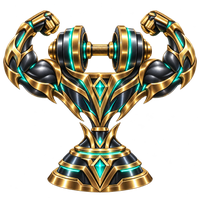
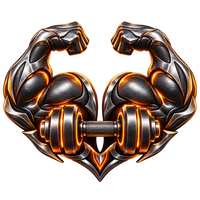
Upgrade Back Builder, Leg Day Legend, and Arm Arsenal badge art (#75)
Swaps in new fantasy-armor artwork for the three muscle-group
training badges, resized to match the existing 200x200 badge format.
Same filenames/ids, so no app.js changes needed — just new pixels
plus a service worker cache bump so the new art actually loads.

Claude-Session: https://claude.ai/code/session_018jJBPyfyecoZ8Jk4MZB7tZ

diff --git a/sw.js b/sw.js
@@ -1,1 +1,1 @@
-const CACHE='body-goals-v73';const ASSETS=['./','index.html','styles.css','app.js','fitnotes-history.json','manifest.webmanifest','icon-192.png','icon-512.png','me-icon.jpg','me-gym.jpg','food-icon.jpg','badges/01_first_step.png','badges/02_seven_day_streak.png','badges/03_thirty_day_streak.png','badges/04_workout_warrior.png','badges/05_iron_discipline.png','badges/06_personal_best.png','badges/07_heavy_hitter.png','badges/08_volume_king.png','badges/09_chest_champion.png','badges/10_back_builder.png','badges/11_leg_day_legend.png','badges/12_shoulder_forge.png','badges/13_arm_arsenal.png','badges/14_protein_target.png','badges/17_hydration_hero.png','badges/21_five_pound_gain.png','badges/22_ten_pound_gain.png','badges/23_two_hundred_milestone.png','badges/25_mass_titan.png'];self.addEventListener('install',e=>{self.skipWaiting();e.waitUntil(caches.open(CACHE).then(c=>c.addAll(ASSETS)))});self.addEventListener('activate',e=>e.waitUntil(Promise.all([caches.keys().then(keys=>Promise.all(keys.filter(k=>k!==CACHE).map(k=>caches.delete(k)))),self.clients.claim()])));self.addEventListener('fetch',e=>e.respondWith(caches.match(e.request).then(r=>r||fetch(e.request).catch(()=>caches.match('index.html')))));
+const CACHE='body-goals-v74';const ASSETS=['./','index.html','styles.css','app.js','fitnotes-history.json','manifest.webmanifest','icon-192.png','icon-512.png','me-icon.jpg','me-gym.jpg','food-icon.jpg','badges/01_first_step.png','badges/02_seven_day_streak.png','badges/03_thirty_day_streak.png','badges/04_workout_warrior.png','badges/05_iron_discipline.png','badges/06_personal_best.png','badges/07_heavy_hitter.png','badges/08_volume_king.png','badges/09_chest_champion.png','badges/10_back_builder.png','badges/11_leg_day_legend.png','badges/12_shoulder_forge.png','badges/13_arm_arsenal.png','badges/14_protein_target.png','badges/17_hydration_hero.png','badges/21_five_pound_gain.png','badges/22_ten_pound_gain.png','badges/23_two_hundred_milestone.png','badges/25_mass_titan.png'];self.addEventListener('install',e=>{self.skipWaiting();e.waitUntil(caches.open(CACHE).then(c=>c.addAll(ASSETS)))});self.addEventListener('activate',e=>e.waitUntil(Promise.all([caches.keys().then(keys=>Promise.all(keys.filter(k=>k!==CACHE).map(k=>caches.delete(k)))),self.clients.claim()])));self.addEventListener('fetch',e=>e.respondWith(caches.match(e.request).then(r=>r||fetch(e.request).catch(()=>caches.match('index.html')))));
